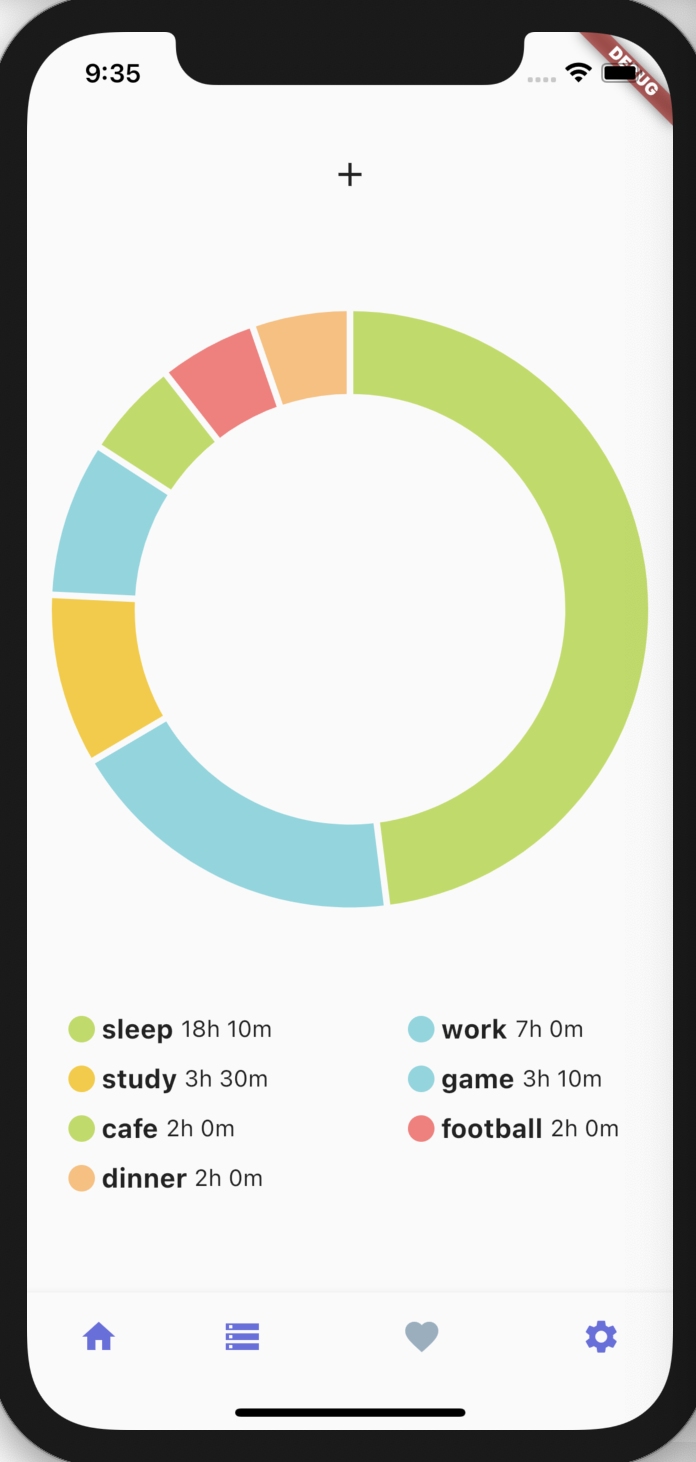
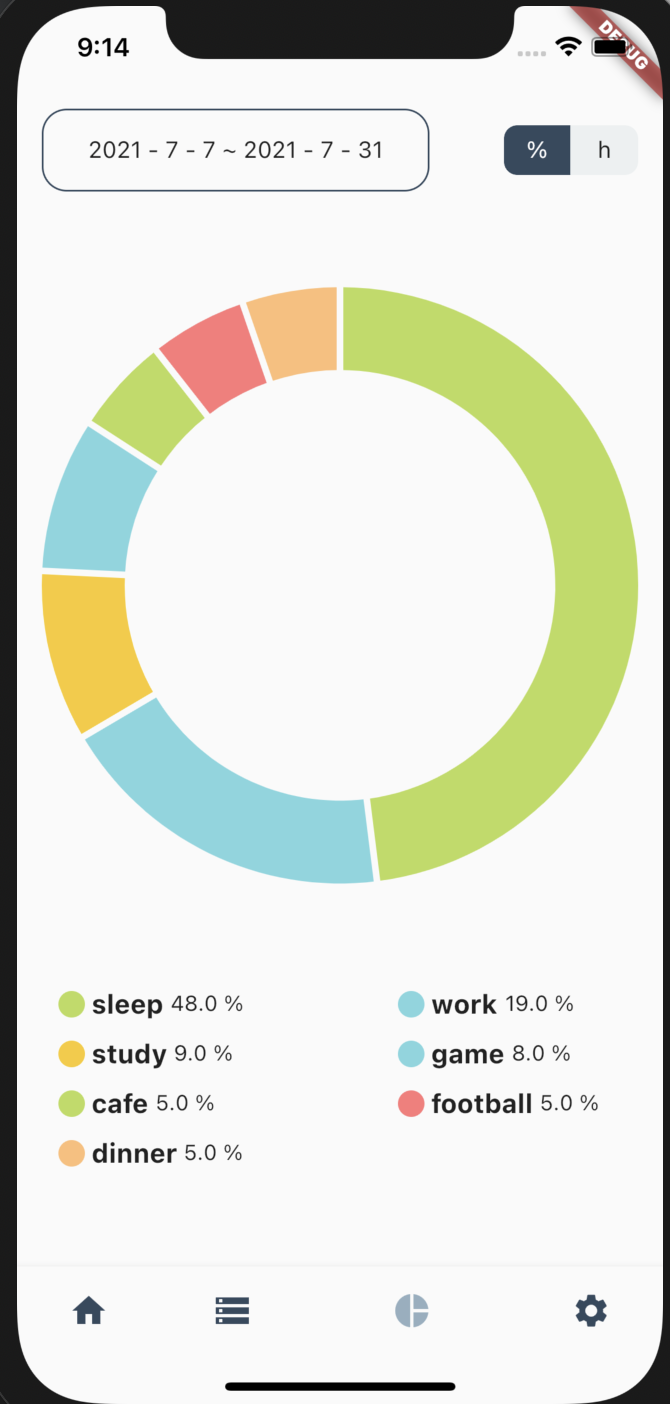
선택 기간 조회

diff --git a/lib/src/pages/chart/controller/chart_controller.dart b/lib/src/pages/chart/controller/chart_controller.dart
@@ -19,8 +19,6 @@ class ChartController extends GetxController {
         _todoController.loadTodoUidList.value.todoList.where((element) =>
             element.ymd.year == dateTime.year &&
             element.ymd.month == dateTime.month));
-    // setPercent();
-    // setHourMinute();
     initChart();
   }
 
@@ -62,14 +60,30 @@ class ChartController extends GetxController {
     }
     for (int i = 0; i < checkChartPageList.value.todoList.length; i++) {
       checkChartPageList.value.todoList[i].percent =
-          (checkChartPageList.value.todoList[i].value / totalSum * 100)
-              .roundToDouble();
+          (checkChartPageList.value.todoList[i].value / totalSum * 100);
     }
   }
 
   void sortChartList() {
     checkChartPageList.value.todoList
         .sort((a, b) => b.value.compareTo(a.value));
+  }
+
+  void makeDateRange(DateTime startTime, DateTime endTime) {
+    chartPageList.value.todoList.clear();
+    var range = endTime.difference(startTime).inDays + 1;
+    for (int i = 0; i < range; i++) {
+      chartPageList.value.todoList.addAll(
+      _todoController.todoUidList.value.todoList
+          .where((element) => element.ymd == startTime.add(Duration(days: i))));
+    }
+    print(chartPageList.value.todoList);
+    checkChartPageList.value.todoList.clear();
+    for(int i = 0; i < chartPageList.value.todoList.length; i++){
+      makeChart(chartPageList.value.todoList[i]);
+    }
+    setPercent();
+    sortChartList();
   }
 
   @override

diff --git a/lib/src/pages/chart/select_date_page.dart b/lib/src/pages/chart/select_date_page.dart
@@ -1,4 +1,6 @@
+import 'package:daily_report/src/pages/chart/controller/chart_controller.dart';
 import 'package:daily_report/src/pages/chart/controller/select_date_controller.dart';
+import 'package:daily_report/src/pages/home.dart';
 import 'package:daily_report/src/pages/home/homepage.dart';
 import 'package:flutter/material.dart';
 import 'package:get/get.dart';
@@ -6,6 +8,7 @@ import 'package:table_calendar/table_calendar.dart';
 
 final SelectDateController _selectDateController =
     Get.put(SelectDateController());
+final ChartController _chartController = Get.put(ChartController());
 
 class SelectDatePage extends StatefulWidget {
   @override
@@ -131,7 +134,10 @@ class _SelectDatePageState extends State<SelectDatePage> {
         MaterialButton(
           onPressed: () {
             if (_selectDateController.rangeBool.value) {
-              Get.back();
+              _chartController.makeDateRange(
+                  _selectDateController.rangeStart.value,
+                  _selectDateController.rangeEnd.value);
+              Get.off(Home());
             }
           },
           color: _selectDateController.rangeBool.value

diff --git a/lib/src/pages/home/homepage.dart b/lib/src/pages/home/homepage.dart
@@ -216,7 +216,7 @@ class _HomePageState extends State<HomePage> {
                                     fontSize: 16, fontWeight: FontWeight.bold),
                               ),
                               Text(
-                                ' ${_todoController.currentUidList.value.todoList[index].percent.roundToDouble()} %',
+                                ' ${_todoController.currentUidList.value.todoList[index].percent.toStringAsFixed(1)} %',
                                 style: TextStyle(fontSize: 13),
                                 overflow: TextOverflow.ellipsis,
                               )

diff --git a/lib/src/pages/chart/chart_page.dart b/lib/src/pages/chart/chart_page.dart
@@ -145,7 +145,7 @@ class _ChartPageState extends State<ChartPage> {
                         ),
                         _chartController.modeIndex.value == 0
                             ? Text(
-                                ' ${_chartController.checkChartPageList.value.todoList[index].percent} %',
+                                ' ${_chartController.checkChartPageList.value.todoList[index].percent.toStringAsFixed(1)} %',
                                 style: TextStyle(fontSize: 13),
                                 overflow: TextOverflow.ellipsis,
                               )

diff --git a/lib/src/pages/chart/controller/select_date_controller.dart b/lib/src/pages/chart/controller/select_date_controller.dart
@@ -2,8 +2,8 @@ import 'package:get/get.dart';
 
 class SelectDateController extends GetxController{
   RxBool rangeBool = false.obs;
-  Rx<DateTime> rangeStart = DateTime.now().obs;
-  Rx<DateTime> rangeEnd = DateTime.now().obs;
+  Rx<DateTime> rangeStart = DateTime(DateTime.now().year, DateTime.now().month, 1).obs;
+  Rx<DateTime> rangeEnd = DateTime(DateTime.now().year, DateTime.now().month + 1, 0).obs;
 
   void setRangeTime(DateTime startTime, DateTime endTime){
     rangeStart(startTime);
